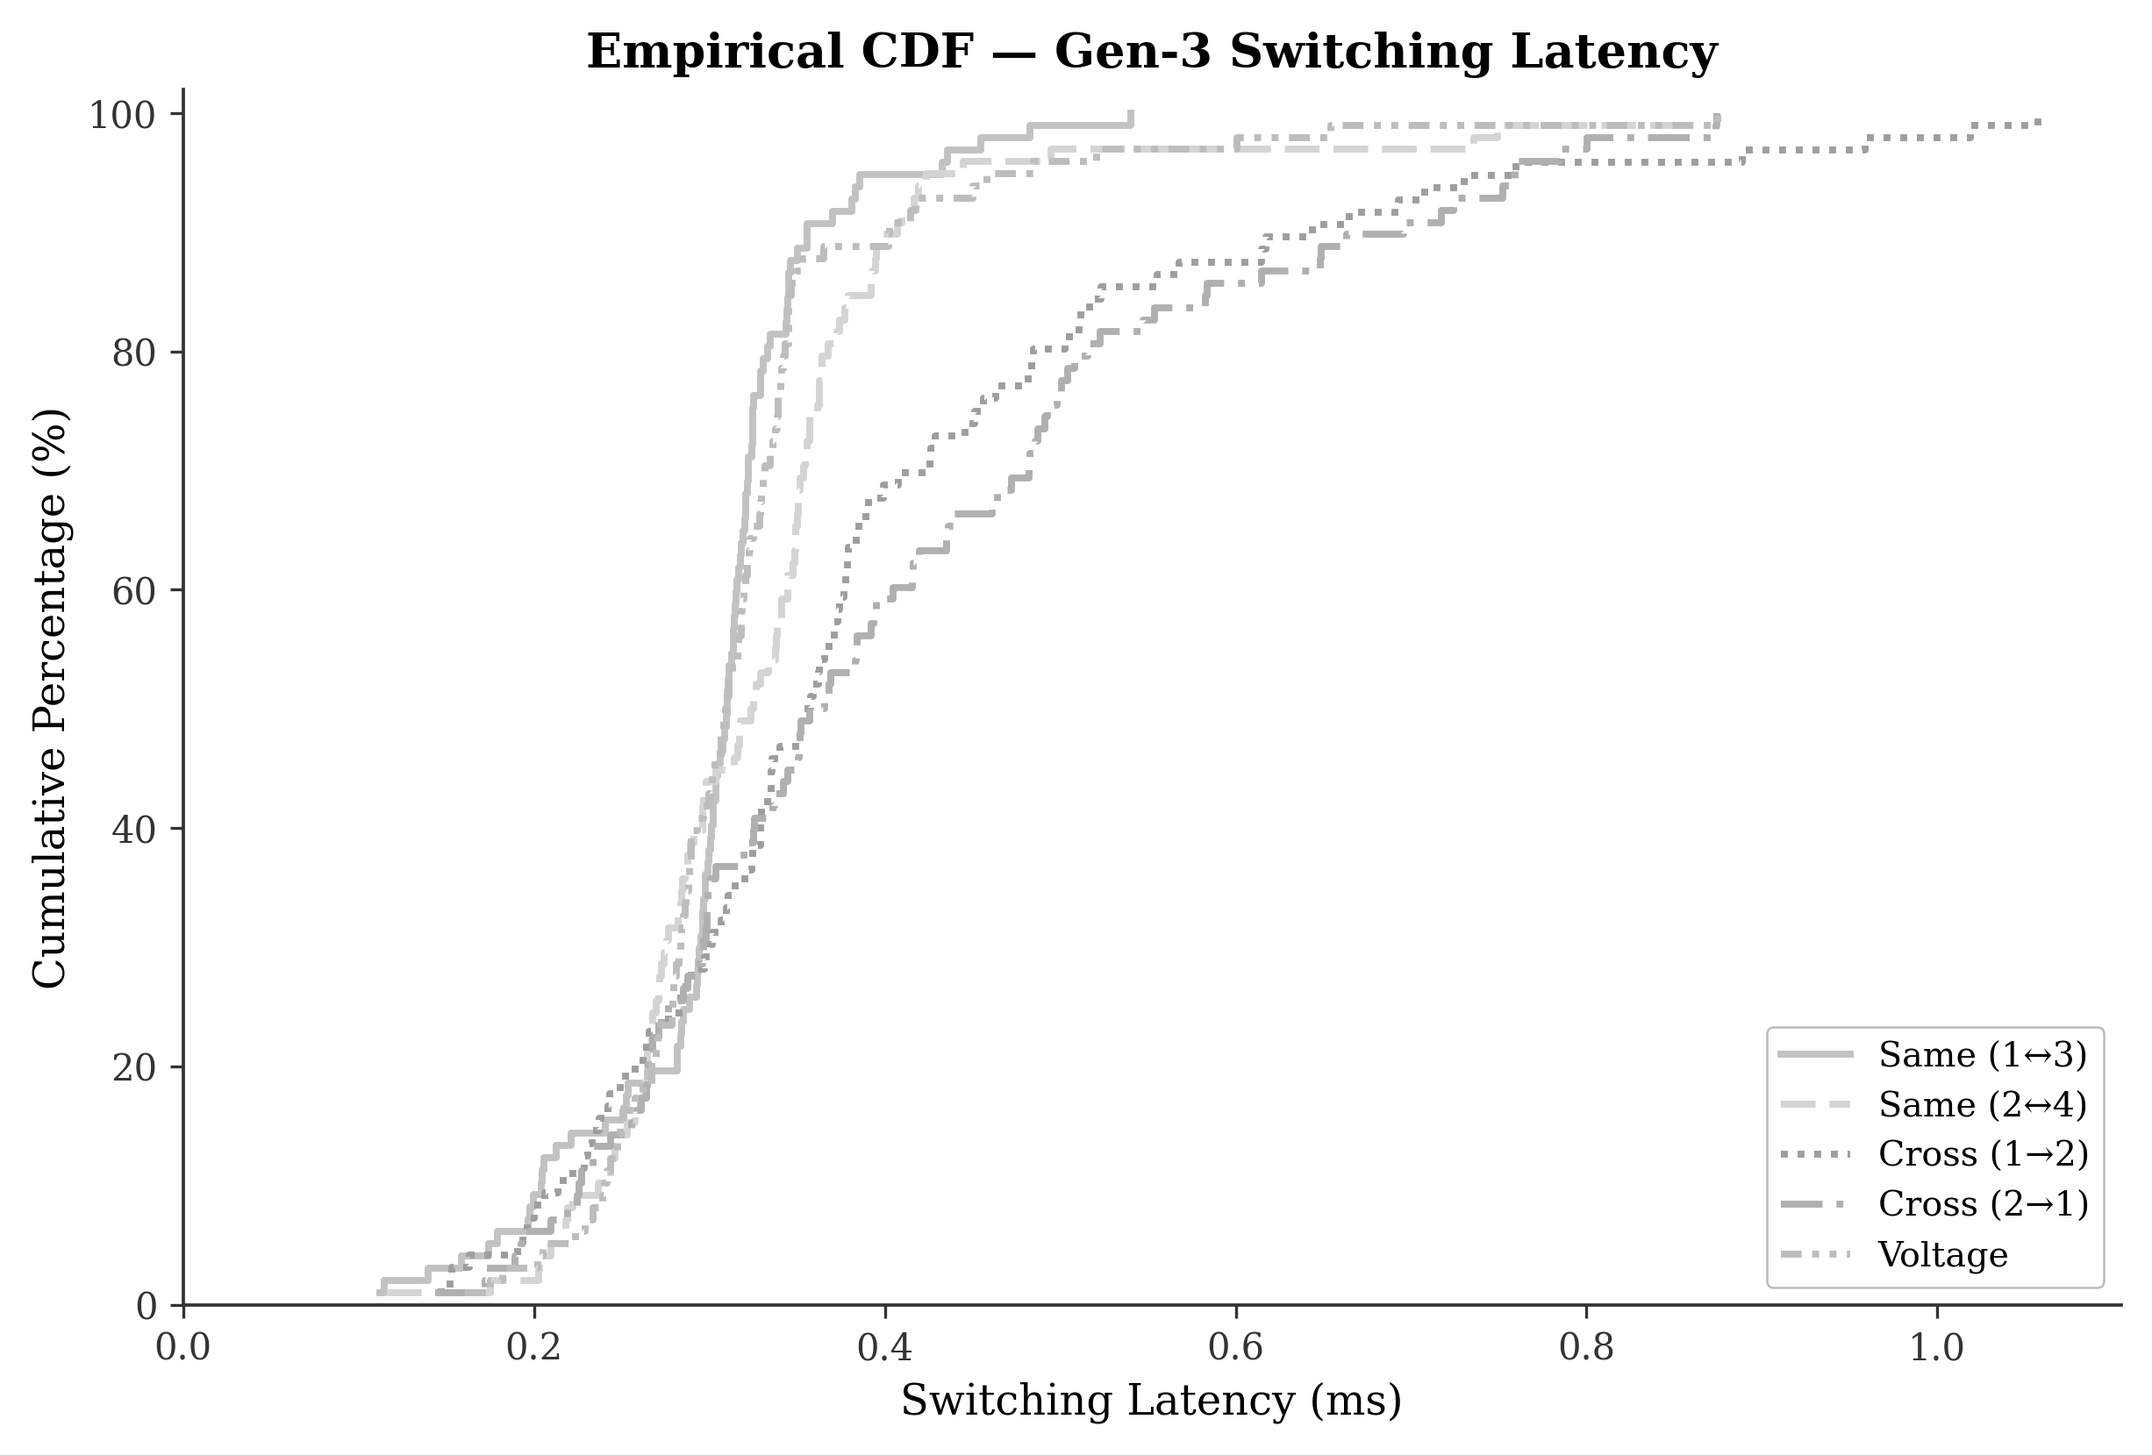
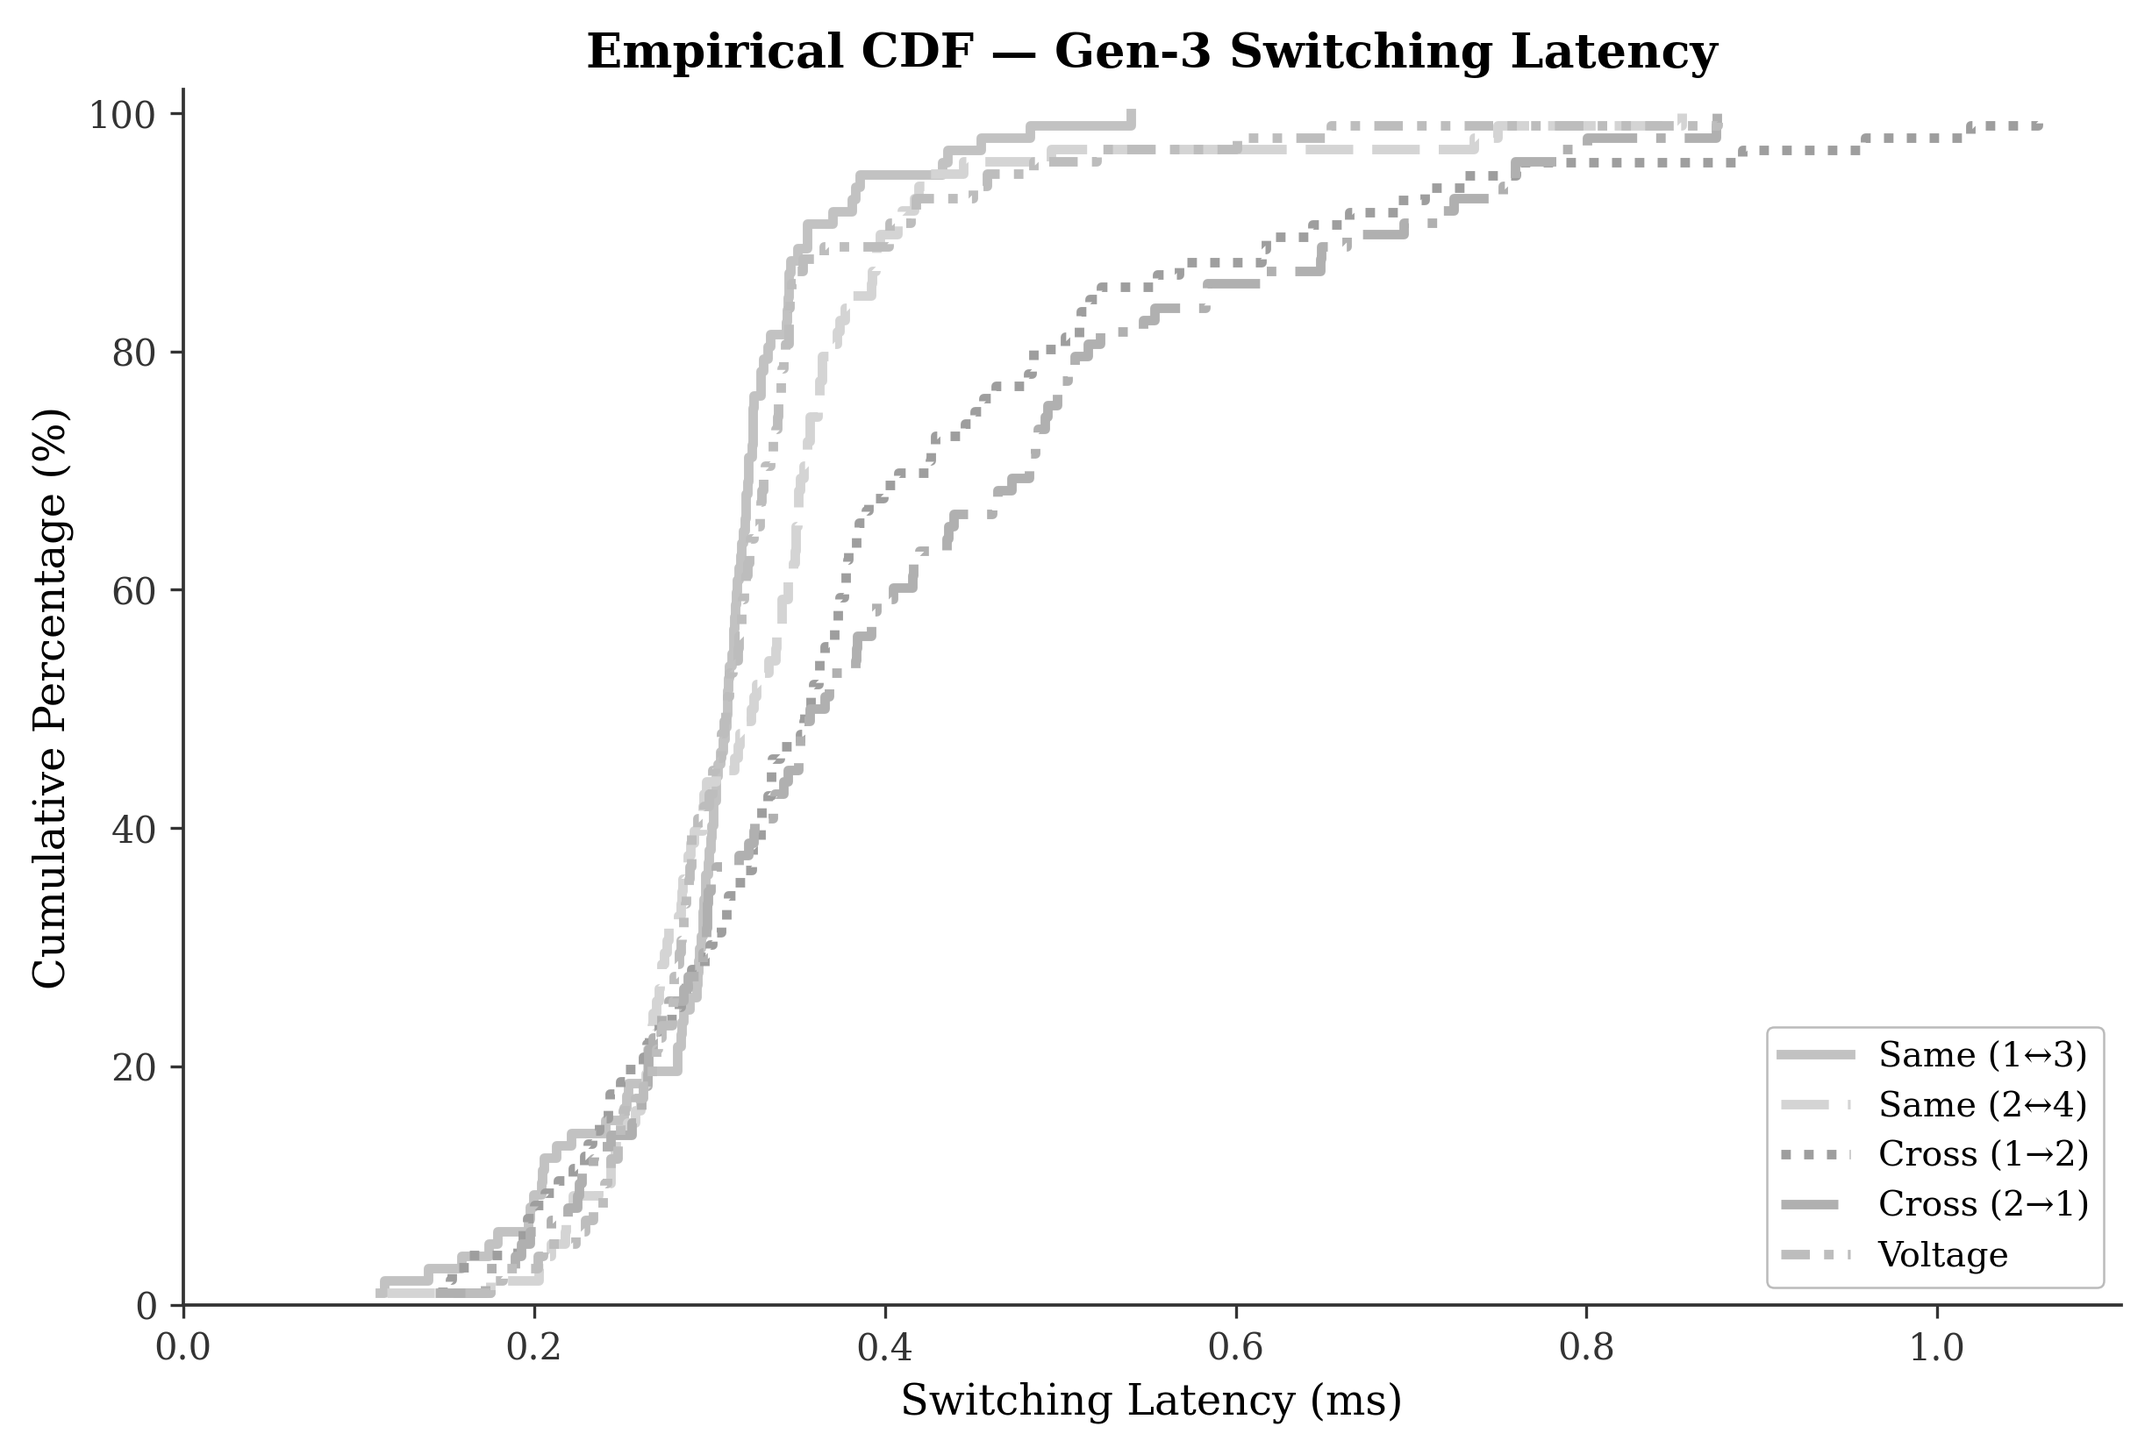
replot benchmark figure

diff --git a/benchmarks/04_combined_latency/rebuild_figures.py b/benchmarks/04_combined_latency/rebuild_figures.py
@@ -10,7 +10,7 @@ import sys
 import os
 
 sys.path.insert(0, "/mnt/c/Users/liuuhua/Desktop/Git Repository/camera_function_generator_multithreaded/benchmarks")
-from paper_style import apply_style, COLORS, save, finish, run_cli, line_style, grey_ramp, BAR_EDGE, BAR_EDGE_LW
+from paper_style import apply_style, COLORS, save, finish, run_cli, line_style, grey_ramp, BAR_EDGE, BAR_EDGE_LW, LINE_BLACK, LW_MAIN, LW_MULTI
 
 import numpy as np
 import pandas as pd
@@ -274,7 +274,7 @@ def fig03():
     for i, s in enumerate(SCEN_ORDER):
         v = np.sort(ST[s]["proc"])
         cdf = np.arange(1, len(v) + 1) / len(v)
-        ax.plot(v, cdf, color=COLOR[s], linewidth=2.0, linestyle=line_style(i),
+        ax.plot(v, cdf, color=COLOR[s], linewidth=LW_MULTI, linestyle=line_style(i),
                 label=f"{LABEL[s]} (mean={ST[s]['proc_mean']:.2f} ms)")
     ax.set_xlabel("Process Thread Latency (ms)")
     ax.set_ylabel("CDF")
@@ -286,31 +286,47 @@ def fig03():
 
 
 # ======================================================================
-# fig04 — grouped bar by round
+# fig04 — one bar per scenario (mean +/- std over all rounds)
+#
+# Previously this was a 4-scenario x 5-round grouped bar (20 near-identical
+# grey bars) that was unreadable on a slide. It is now collapsed to ONE bar
+# per scenario, aggregated over every round, with a black mean +/- std error
+# bar so the spread is shown directly. Cross-round consistency is reported in
+# a small annotation instead of as separate per-round bars.
 # ======================================================================
 def fig04():
-    fig, ax = plt.subplots(figsize=(11, 6))
-    rounds = [1, 2, 3, 4, 5]
-    x = np.arange(len(rounds))
-    nb = len(SCEN_ORDER)
-    w = 0.19
-    for j, s in enumerate(SCEN_ORDER):
-        vals = []
-        for r in rounds:
-            sub = df[(df.scenario == s) & (df["round"] == r)]
-            vals.append(sub.process_ms.mean())
-        offset = (j - (nb - 1) / 2) * w
-        ax.bar(x + offset, vals, width=w, color=COLOR[s], edgecolor="#333333",
-               linewidth=0.6, label=LABEL[s], zorder=3)
+    fig, ax = plt.subplots(figsize=(9.5, 6))
+    x = np.arange(len(SCEN_ORDER))
+    means = [ST[s]["proc_mean"] for s in SCEN_ORDER]
+    stds = [ST[s]["proc_std"] for s in SCEN_ORDER]
+    # Distinct light-grey steps so the four scenarios separate cleanly.
+    fills = grey_ramp(len(SCEN_ORDER), lo=0.62, hi=0.86)
+
+    ax.bar(x, means, width=0.6, yerr=stds, capsize=6, color=fills,
+           edgecolor=BAR_EDGE, linewidth=BAR_EDGE_LW,
+           error_kw=dict(ecolor="#1a1a1a", elinewidth=1.6, capthick=1.6),
+           zorder=3, label="Mean ± Std")
+
+    ymax = max(m + s for m, s in zip(means, stds)) * 1.22
+    ax.set_ylim(0, ymax)
+    for xi, m, sd in zip(x, means, stds):
+        ax.text(xi, m + sd + ymax * 0.02, f"{m:.2f}", ha="center", va="bottom",
+                fontsize=11.5, fontweight="bold", color="#1a1a1a")
+
+    # Cross-round consistency: max spread of per-round means across scenarios.
+    per_round = df.groupby(["scenario", "round"]).process_ms.mean()
+    spread = max(per_round.groupby(level=0).max() -
+                 per_round.groupby(level=0).min())
+    ax.text(0.02, 0.97,
+            f"Cross-round spread ≤ {spread:.2f} ms\n(aggregated over 5 rounds)",
+            transform=ax.transAxes, ha="left", va="top", fontsize=10.5,
+            bbox=dict(boxstyle="round,pad=0.4", facecolor="white",
+                      edgecolor="#999999"))
 
     ax.set_xticks(x)
-    ax.set_xticklabels([f"Round {r}" for r in rounds])
-    ax.set_ylabel("Process Thread Mean Latency (ms)")
-    ax.set_title("Process Thread Latency — 4 Scenarios × 5 Rounds")
-    ymax = max(df.groupby(["scenario", "round"]).process_ms.mean()) * 1.30
-    ax.set_ylim(0, ymax)
-    ax.legend(loc="upper center", ncol=4, frameon=True,
-              bbox_to_anchor=(0.5, 1.0), columnspacing=1.2)
+    ax.set_xticklabels([LABEL[s] for s in SCEN_ORDER])
+    ax.set_ylabel("Process Thread Latency (ms)")
+    ax.set_title("Process Thread Latency by Scenario (Mean ± Std)")
     finish(ax)
     save(fig, os.path.join(HERE, "fig04_grouped_bar_rounds.png"))
 

diff --git a/benchmarks/paper_style.py b/benchmarks/paper_style.py
@@ -44,10 +44,12 @@ COLORS = {
     "red":    "#000000",   # P99 / threshold emphasis markers   -> black
     "grey":   "#aeaeae",   # baseline / annotations
     "grey_l": "#e0e0e0",
-    # 5-step sequential grey ramp for "per round" series (R1..R5). Kept in a
-    # medium band so thin CDF/line strokes stay visible on white; bars that
-    # use this ramp also carry a dark edge.
-    "ramp5":  ["#5a5a5a", "#7d7d7d", "#9a9a9a", "#bcbcbc", "#d6d6d6"],
+    # 5-step sequential grey ramp for "per round" series (R1..R5). The light
+    # end stays dark enough (~#a8) that thin CDF/line strokes remain visible
+    # on a white slide; bars that use this ramp also carry a dark edge. Line
+    # plots additionally use dash-style differentiation, so the steps need
+    # only be distinguishable, not maximally spread.
+    "ramp5":  ["#3d3d3d", "#5e5e5e", "#7d7d7d", "#969696", "#aeaeae"],
     "header_blue": "#404040",   # table header fill (dark grey)
     "row_blue":    "#ededed",   # table zebra row fill (light grey)
     "pass_green":  "#7d7d7d",
@@ -57,6 +59,13 @@ COLORS = {
 # fills always have a crisp border that frames the black error bars.
 BAR_EDGE = "#1a1a1a"
 BAR_EDGE_LW = 0.9
+
+# Single-series line/CDF plots use a solid BLACK stroke for maximum slide
+# legibility; multi-series plots keep grey + dash-style differentiation.
+LINE_BLACK = "#000000"
+# Recommended stroke widths for projected slides.
+LW_MAIN = 3.0   # primary single-series line
+LW_MULTI = 2.6  # each line in a multi-series CDF/overlay
 
 # ----------------------------------------------------------------------
 # Line-style cycle for figures whose series are distinguished ONLY by
@@ -134,7 +143,10 @@ def apply_style():
         "savefig.bbox": "tight",
         "pdf.fonttype": 42,
         "ps.fonttype": 42,
-        "lines.linewidth": 1.8,
+        # Thicker default strokes so line/CDF figures stay legible when
+        # projected on a slide.
+        "lines.linewidth": 2.8,
+        "lines.markersize": 7,
         "patch.linewidth": 0.6,
     })
 

diff --git a/benchmarks/07_calibration_quality/rebuild_figures.py b/benchmarks/07_calibration_quality/rebuild_figures.py
@@ -12,7 +12,7 @@ import sys
 import pathlib
 
 sys.path.insert(0, "/mnt/c/Users/liuuhua/Desktop/Git Repository/camera_function_generator_multithreaded/benchmarks")
-from paper_style import apply_style, COLORS, save, finish, run_cli, line_style, grey_ramp, BAR_EDGE, BAR_EDGE_LW  # noqa: E402
+from paper_style import apply_style, COLORS, save, finish, run_cli, line_style, grey_ramp, BAR_EDGE, BAR_EDGE_LW, LINE_BLACK, LW_MAIN, LW_MULTI  # noqa: E402
 
 apply_style()
 
@@ -186,7 +186,7 @@ def fig01():
 
     sorted_r = np.sort(res)
     pct = np.linspace(0, 100, n)
-    ax.plot(pct, sorted_r, color=COLORS["blue"], linewidth=2.0,
+    ax.plot(pct, sorted_r, color=LINE_BLACK, linewidth=LW_MAIN,
             label="Sorted residual")
 
     ax.set_title("TPS Calibration Residual — Sorted (1504 Points)")
@@ -316,9 +316,9 @@ def fig04():
     s_t, c_t = cdf(res)
     s_a, c_a = cdf(aff)
 
-    ax.plot(s_t, c_t, color=COLORS["blue"], lw=2.2, linestyle=line_style(0),
+    ax.plot(s_t, c_t, color=COLORS["blue"], lw=LW_MULTI, linestyle=line_style(0),
             label="TPS (mean=%.3f px)" % tps_mean)
-    ax.plot(s_a, c_a, color=COLORS["tan"], lw=2.2, linestyle=line_style(1),
+    ax.plot(s_a, c_a, color=COLORS["tan"], lw=LW_MULTI, linestyle=line_style(1),
             label="Affine (mean=%.3f px)" % aff_mean)
 
     ax.set_title("Calibration Accuracy: TPS vs Affine Transform")
@@ -364,7 +364,7 @@ def fig05():
     ax2.spines["top"].set_visible(False)
     sorted_r = np.sort(res)
     cum = 100.0 * np.arange(1, n + 1) / n
-    line_cum, = ax2.plot(sorted_r, cum, color=COLORS["red"], lw=2.0,
+    line_cum, = ax2.plot(sorted_r, cum, color=LINE_BLACK, lw=LW_MAIN,
                          label="Cumulative %", zorder=3)
     ax2.set_ylabel("Cumulative (%)")
     ax2.set_ylim(0, 105)

diff --git a/benchmarks/05_pipeline_throughput/rebuild_figures.py b/benchmarks/05_pipeline_throughput/rebuild_figures.py
@@ -13,7 +13,7 @@ import sys
 import pathlib
 
 sys.path.insert(0, "/mnt/c/Users/liuuhua/Desktop/Git Repository/camera_function_generator_multithreaded/benchmarks")
-from paper_style import apply_style, COLORS, save, finish, run_cli, line_style, grey_ramp, BAR_EDGE, BAR_EDGE_LW
+from paper_style import apply_style, COLORS, save, finish, run_cli, line_style, grey_ramp, BAR_EDGE, BAR_EDGE_LW, LINE_BLACK, LW_MAIN, LW_MULTI
 
 import numpy as np
 import pandas as pd
@@ -237,7 +237,7 @@ def fig03():
     for i, r in enumerate(ROUNDS):
         s = np.sort(df[df["round"] == r]["total_ms"].values)
         cdf = np.arange(1, len(s) + 1) / len(s)
-        ax.plot(s, cdf, color=ramp[i % len(ramp)], linewidth=1.9,
+        ax.plot(s, cdf, color=ramp[i % len(ramp)], linewidth=LW_MULTI,
                 linestyle=line_style(i),
                 label=f"Round {r} (mean={s.mean():.2f}ms)")
     ax.set_xlabel("Total Frame Latency (ms)")
@@ -469,7 +469,7 @@ def fig07():
                edgecolors="none")
     ax.fill_between(idx, omean - ostd, omean + ostd, color=COLORS["green"],
                     alpha=0.15, label="±1σ band")
-    ax.plot(idx, roll, color=COLORS["green"], linewidth=1.8,
+    ax.plot(idx, roll, color=LINE_BLACK, linewidth=LW_MAIN,
             label="Rolling mean (50)")
     ax.axhline(omean, color=COLORS["red"], linewidth=1.4, linestyle="--",
                label=f"Overall mean = {omean:.2f} ms")

diff --git a/benchmarks/01_fg_switching/rebuild_figures.py b/benchmarks/01_fg_switching/rebuild_figures.py
@@ -11,7 +11,7 @@ import sys
 import pathlib
 
 sys.path.insert(0, "/mnt/c/Users/liuuhua/Desktop/Git Repository/camera_function_generator_multithreaded/benchmarks")
-from paper_style import apply_style, COLORS, save, finish, run_cli, line_style, grey_ramp, BAR_EDGE, BAR_EDGE_LW  # noqa: E402
+from paper_style import apply_style, COLORS, save, finish, run_cli, line_style, grey_ramp, BAR_EDGE, BAR_EDGE_LW, LINE_BLACK, LW_MAIN, LW_MULTI  # noqa: E402
 
 import numpy as np  # noqa: E402
 import pandas as pd  # noqa: E402
@@ -289,7 +289,7 @@ def fig03():
         arr = np.sort(DATA[c])
         cdf = np.arange(1, arr.size + 1) / arr.size * 100.0
         ax.step(arr, cdf, where="post", color=COLORS[CKEY[c]],
-                linestyle=line_style(i), label=SHORT[c], linewidth=1.9)
+                linestyle=line_style(i), label=SHORT[c], linewidth=LW_MULTI)
 
     ax.set_xlabel("Switching Latency (ms)")
     ax.set_ylabel("Cumulative Percentage (%)")
@@ -368,7 +368,7 @@ def fig05():
         # KDE
         kde = gaussian_kde(arr)
         xs = np.linspace(arr.min(), arr.max(), 200)
-        ax.plot(xs, kde(xs), color=col, linewidth=2.0, zorder=3)
+        ax.plot(xs, kde(xs), color=LINE_BLACK, linewidth=LW_MAIN, zorder=3)
         mu = np.mean(arr)
         sig = np.std(arr, ddof=1)
         ax.axvline(mu, color="#222222", linestyle="--", linewidth=1.3,

diff --git a/benchmarks/06_mode_switch_impact/rebuild_figures.py b/benchmarks/06_mode_switch_impact/rebuild_figures.py
@@ -21,7 +21,7 @@ import sys
 import os
 
 sys.path.insert(0, "/mnt/c/Users/liuuhua/Desktop/Git Repository/camera_function_generator_multithreaded/benchmarks")
-from paper_style import apply_style, COLORS, save, finish, run_cli, line_style, grey_ramp, BAR_EDGE, BAR_EDGE_LW
+from paper_style import apply_style, COLORS, save, finish, run_cli, line_style, grey_ramp, BAR_EDGE, BAR_EDGE_LW, LINE_BLACK, LW_MAIN, LW_MULTI
 
 import numpy as np
 import pandas as pd
@@ -538,15 +538,15 @@ def fig06():
     main_crossgroup = real + (MAIN_CROSSGROUP - real_mean)  # reference (shifted)
 
     sx, sy = cdf(main_baseline)
-    axb.plot(sx, sy, color=COLORS["grey"], linewidth=2.0,
+    axb.plot(sx, sy, color=COLORS["grey"], linewidth=LW_MULTI,
              linestyle=line_style(0),
              label="FG on Main Thread: Baseline")
     sx, sy = cdf(main_crossgroup)
-    axb.plot(sx, sy, color=COLORS["purple"], linewidth=2.0,
+    axb.plot(sx, sy, color=COLORS["purple"], linewidth=LW_MULTI,
              linestyle=line_style(1),
              label="FG on Main Thread: Cross-Group")
     sx, sy = cdf(real)
-    axb.plot(sx, sy, color=COLORS["tan"], linewidth=2.2,
+    axb.plot(sx, sy, color=COLORS["tan"], linewidth=LW_MULTI,
              linestyle=line_style(2),
              label="FG on Separate Thread: With Injection")
 

diff --git a/benchmarks/08_system_budget/rebuild_figures.py b/benchmarks/08_system_budget/rebuild_figures.py
@@ -13,7 +13,7 @@ import sys
 import os
 
 sys.path.insert(0, "/mnt/c/Users/liuuhua/Desktop/Git Repository/camera_function_generator_multithreaded/benchmarks")
-from paper_style import apply_style, COLORS, save, finish, run_cli, line_style, grey_ramp, BAR_EDGE, BAR_EDGE_LW  # noqa: E402
+from paper_style import apply_style, COLORS, save, finish, run_cli, line_style, grey_ramp, BAR_EDGE, BAR_EDGE_LW, LINE_BLACK, LW_MAIN, LW_MULTI  # noqa: E402
 
 import numpy as np  # noqa: E402
 import pandas as pd  # noqa: E402
@@ -219,7 +219,7 @@ def fig02():
     for r in range(1, 6):
         s = np.sort(df[df["round"] == r].process_ms.values)
         cdf = np.arange(1, len(s) + 1) / len(s)
-        ax.plot(s, cdf, color=ramp[r - 1], lw=2.0,
+        ax.plot(s, cdf, color=ramp[r - 1], lw=LW_MULTI,
                 linestyle=line_style(r - 1),
                 label=f"Round {r} (mean={s.mean():.2f} ms)")
     ax.set_xlabel("Process Thread Latency (ms)")

diff --git a/benchmarks/03_end_to_end_latency/rebuild_figures.py b/benchmarks/03_end_to_end_latency/rebuild_figures.py
@@ -15,7 +15,7 @@ from matplotlib.patches import FancyBboxPatch, FancyArrowPatch
 from matplotlib.lines import Line2D
 
 sys.path.insert(0, "/mnt/c/Users/liuuhua/Desktop/Git Repository/camera_function_generator_multithreaded/benchmarks")
-from paper_style import apply_style, COLORS, save, finish, run_cli, line_style, grey_ramp, BAR_EDGE, BAR_EDGE_LW
+from paper_style import apply_style, COLORS, save, finish, run_cli, line_style, grey_ramp, BAR_EDGE, BAR_EDGE_LW, LINE_BLACK, LW_MAIN, LW_MULTI
 
 apply_style()
 
@@ -154,7 +154,7 @@ def fig01():
     ]):
         x = np.sort(series.dropna().values)
         y = np.arange(1, len(x) + 1) / len(x)
-        ax.plot(x, y, color=col, linewidth=2.2, linestyle=line_style(i), label=lab)
+        ax.plot(x, y, color=col, linewidth=LW_MULTI, linestyle=line_style(i), label=lab)
 
     ax.set_xlabel("FG Write Latency (ms)")
     ax.set_ylabel("CDF")

diff --git a/benchmarks/02_process_thread/rebuild_figures.py b/benchmarks/02_process_thread/rebuild_figures.py
@@ -8,7 +8,7 @@ import sys
 import os
 
 sys.path.insert(0, "/mnt/c/Users/liuuhua/Desktop/Git Repository/camera_function_generator_multithreaded/benchmarks")
-from paper_style import apply_style, COLORS, save, finish, run_cli, line_style, grey_ramp, BAR_EDGE, BAR_EDGE_LW
+from paper_style import apply_style, COLORS, save, finish, run_cli, line_style, grey_ramp, BAR_EDGE, BAR_EDGE_LW, LINE_BLACK, LW_MAIN, LW_MULTI
 
 import numpy as np
 import pandas as pd
@@ -227,7 +227,7 @@ def fig02():
         n = len(vals)
         y = np.arange(1, n + 1) / n * 100.0
         mean = vals.mean()
-        ax.plot(vals, y, color=ramp[ri], linewidth=1.8,
+        ax.plot(vals, y, color=ramp[ri], linewidth=LW_MULTI,
                 linestyle=line_style(ri),
                 label=f"Round {r} (µ={mean:.3f}, n={n})")
     ax.set_xlabel("Total Processing Time (ms)")
